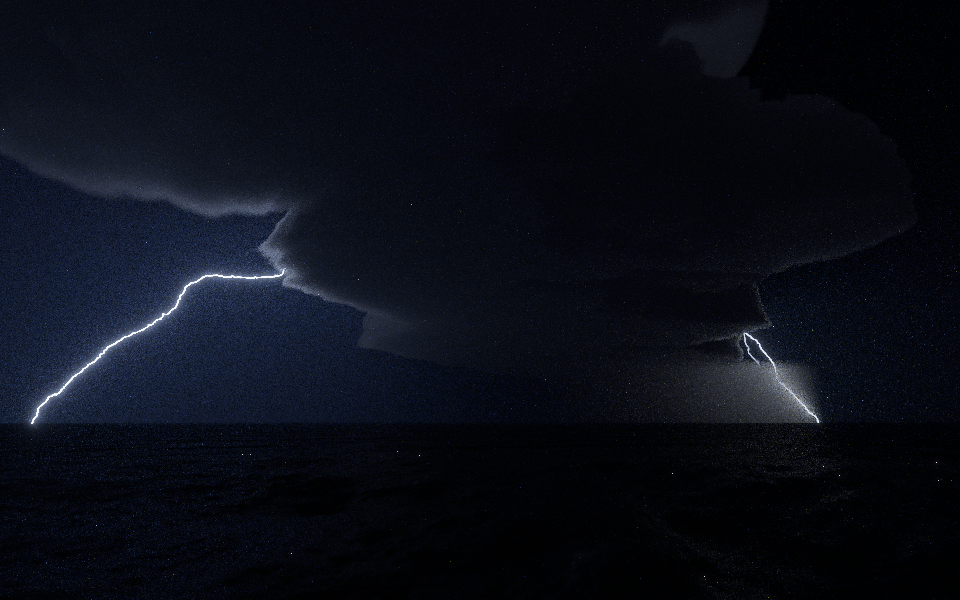
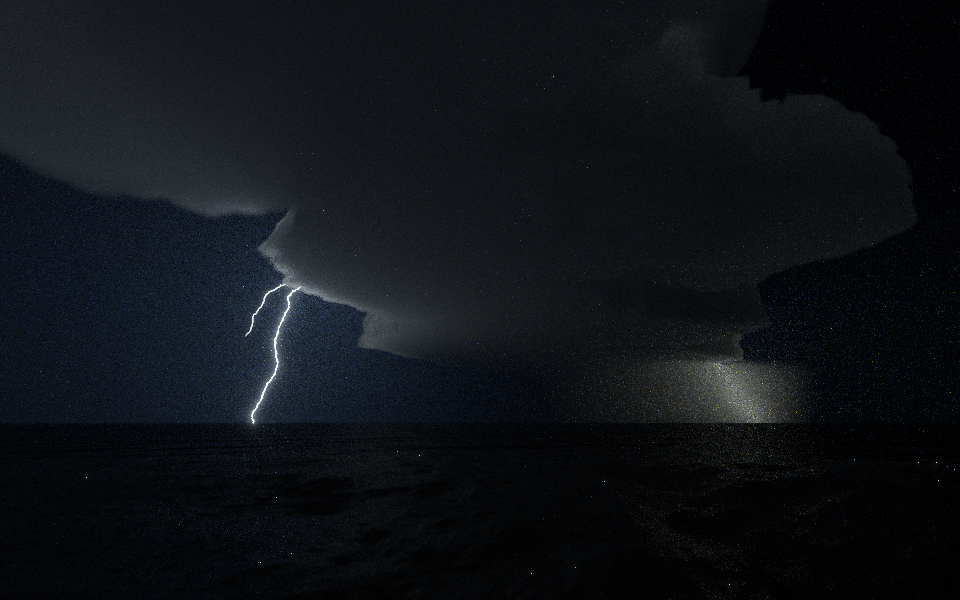
Lightning scenes: a real cloud's albedo, and the atlas on the physics
The storm's cloud absorbs as real droplets do (albedo 0.9999), so the light
of flashes inside it spreads through it; paths there end after a few
vertices, which gather nothing more at night. The atlas describes the field,
the spectrum and the dipole glow.

Claude-Session: https://claude.ai/code/session_01U8ZZinkEy4uK9PmdkwJuJu

Changed region(s): [[0.0, 0.3, 0.4688, 0.75], [0.6562, 0.51, 0.9062, 0.78]]

diff --git a/CLAUDE.md b/CLAUDE.md
@@ -5,12 +5,12 @@ Rays.rust is a raytracer written in Rust with the following features:
 - Whitted tracing and path tracing with Monte-Carlo global illumination
 - Material models: Lambertian, Specular, Dielectric, Plastic, Leaf (translucent, `src/material/leaf.rs`), procedural Rock (layered by elevation and bed, festoon cross-bedding shared with terrain relief (`rock::cross_beds`), honeycomb pits, desert varnish, flutes; `fractal` turbulent bump mapping down to the pixel's footprint, and `crackle` fractures, for close-up detail) and Soil (`src/material/soil.rs`: mottled topsoil, stones, litter and moss; loam, clay, sand, desert, forest_floor); bump mapping via an object's "normal" (src/material/bump.rs, docs/bump-mapping.md)
 - Objects: Sphere, Plane, Mesh, OBJ file import; transforms and instancing of named "geometries"; POV-Ray's shapes (cylinder, cone, torus, blob, isosurface, text and more; see docs/shapes.md, parsed in src/scenefile_shapes.rs), combined by CSG (src/shapes/csg.rs); mountains (`"mountains"`: ridged-noise heightfield with snow, rock and vegetation; `"cloud"` raises hill cloud over it, `src/procedural/hill_cloud.rs`: damp air lifted past saturation caps the summits and streams downwind, joining an `overcast` deck's volume (`volume::Sum`) to be lit through its column), and a planet (`"planet"`: the ground as a sphere of the Earth's radius); clouds can cover the whole planet (`"mapping": "global"`: an equi-angular cube-sphere weather map and a planet-wide wind field), seen from orbit in `demo/scenes/orbit.json` (and the bare atmosphere at the limb and from the stratosphere: `limb-sunset.json`, `stratosphere.json`)
-- Participating media: boxes or closed shapes (`"shape"`: media inside dielectrics) of constant, noise-driven or voxel-grid density (`src/volume/grid.rs`: Mitsuba `.vol`, pbrt's DDA majorant grid; delta tracking with local majorants, ratio-tracked shadows); chromatic media (`"sigma_a"`/`"sigma_s"` per channel) tracked by pbrt's spectral MIS (`src/volume/chromatic.rs`: a hero channel per path, ratios settled at the nearest hit and applied as `chromatic::weight()` where light is gathered; shadow transmittance is a `Color`); emissive media (`src/volume/emission.rs`: colour or blackbody temperature grids); Henyey-Greenstein or Mie (water droplet) phase, with delta-M truncation of its forward peak wherever the camera doesn't see the medium directly (`"delta_m"`, on by default: `Volume::truncated` for segments leaving a surface, `volume::at_vertex`; the camera's first scattering keeps the whole phase function); diffraction by particles (coronae, iridescence); ice-crystal halos traced through hexagonal prisms (sun dogs, 22°/46° halos, circumzenithal arc); rainbows traced through raindrops (`"rainbow": true`: primary and secondary bows, Alexander's dark band); optional similarity and Oz multiple-scattering approximations, and diffusion for thick decks (`"diffusion"`: at a path's first vertex in the medium, sunlight diffused through a slab as thick as the column through it, `DensityField::column_depths`, and point/area lights (lightning) diffused out of the medium along the line to each sample, `VolumeMaterial::diffused_fraction`, through `material::functions::sample_lights_through`; later vertices there skip both)
+- Participating media: boxes or closed shapes (`"shape"`: media inside dielectrics) of constant, noise-driven or voxel-grid density (`src/volume/grid.rs`: Mitsuba `.vol`, pbrt's DDA majorant grid; delta tracking with local majorants, ratio-tracked shadows); chromatic media (`"sigma_a"`/`"sigma_s"` per channel) tracked by pbrt's spectral MIS (`src/volume/chromatic.rs`: a hero channel per path, ratios settled at the nearest hit and applied as `chromatic::weight()` where light is gathered; shadow transmittance is a `Color`); emissive media (`src/volume/emission.rs`: colour or blackbody temperature grids); Henyey-Greenstein or Mie (water droplet) phase, with delta-M truncation of its forward peak wherever the camera doesn't see the medium directly (`"delta_m"`, on by default: `Volume::truncated` for segments leaving a surface, `volume::at_vertex`; the camera's first scattering keeps the whole phase function); diffraction by particles (coronae, iridescence); ice-crystal halos traced through hexagonal prisms (sun dogs, 22°/46° halos, circumzenithal arc); rainbows traced through raindrops (`"rainbow": true`: primary and secondary bows, Alexander's dark band); optional similarity and Oz multiple-scattering approximations, and diffusion for thick decks (`"diffusion"`: at a path's first vertex in the medium, sunlight diffused through a slab as thick as the column through it, `DensityField::column_depths`, and point/area lights (lightning) glowing out through the medium by the diffusion dipole (as Jensen et al.'s BSSRDF), along the line to each sample, `VolumeMaterial::diffused_gain`, through `material::functions::sample_lights_through`; later vertices there skip both)
 - Skysphere with Rayleigh and Mie Scattering (radiance per unit of the `"sun"`'s irradiance: with a sun the sky's `brightness` follows its `intensity`, `SceneFile::sky_follows_sun`), and aerial perspective (distant objects attenuated and hazed by the same atmosphere); `"crepuscular_rays": true` lets clouds and terrain shadow the air (sunbeams)
 - The rest of the universe (`"background": {"type": "space"}`, `src/procedural/space/`, docs/space.md): procedural stars (luminosity function, black-body colours), the Milky Way's glow and dust lanes, emission, reflection, planetary and dark nebulae, and spiral and elliptical galaxies; physically bright (magnitudes against the sun's, so it takes a night exposure, `"output": {"exposure": ...}`) unless `brightness` scales it; seen through a skysphere's air by its transmittance, and skipped where the sky outshines it (`threshold`) (`demo/scenes/deep-space.json`, `night-orbit.json`)
 - Moons (`"moon"`, `src/celestial/`, docs/moon.md): real spheres at their true distance (placed by `direction`, a Keplerian `orbit` or `position`; tidally locked, with libration) with a seeded cratered surface (Pike's crater shapes, saturated crater populations, basins, near-side maria, rays; relief shadows near the terminator) reflecting the sun by Hapke's model fitted to the Moon's phase curve (so physically bright), lit by earthshine and eclipsed by the planet; its reflected light lights the scene and the night sky (`Moonlight`, `Scene::moonlight`, sampled like the sun via `Scene::directional_lights`); `demo/scenes/moon.json`, `moonrise.json`, `moon-daytime.json`, `moon-crescent.json`
 - Planets (docs/planets.md, `src/celestial/`): gas and ice giants (`"gas_giant"`: Jupiter, Saturn, Uranus, Neptune presets or seeded; oblate spheroids, `shape.rs`; cloud bands grown from the jets' shear and the clouds advected by jets, turbulence and vortices, `bands.rs`; Hapke cloud-deck photometry calibrated to geometric albedo, `giant.rs`; moons' shadows on them), rings (`rings.rs`: optical-depth profiles, Saturn's measured, seeded ones with resonance gaps; single scattering lit/unlit faces, transmission, shadows both ways, filtered τ), rocky and icy worlds as `moon` presets (`terrain.rs`: mercury, mars, callisto, ganymede, europa, io, seeded rocky/icy), and `"world"`: any of these from one seed (`celestial::world_object`); `demo/scenes/saturn.json`, `saturn-shadows.json`, `jupiter.json`, `ice-giants.json`, `worlds.json`, `worlds-from-seeds.json`
-- Lightning (`"lightning"`, `src/procedural/lightning.rs`): a channel grown as a stepped leader (16° tortuosity, branching thinning by generation, the race to the ground decides the main channel; fractal detail by midpoint displacement; branches glow by the channel beyond them), cloud-to-ground or intracloud; physically bright (lumen-seconds per metre per stroke over the `shutter`, on the sun's scale, `SceneFile::lightning_follows_sun`); an emitter sampled segment by segment through its own light BVH (`Channel::sample_from`), widened to half a pixel from the camera keeping its light per metre, casting no shadow; `demo/scenes/lightning.json`, `lightning-anvil.json`
+- Lightning (`"lightning"`, `src/procedural/lightning.rs`): a channel grown as a stepped leader in the storm's field (`Field`: a charge tripole, the channel's charge, images in the ground; tips advance with probability (E/E_max)^η as in the dielectric breakdown model, 16° tortuosity, branching thinning by generation, the race to the ground decides the main channel; fractal detail by midpoint displacement; branches glow by the channel beyond them), cloud-to-ground or intracloud; physically bright (lumen-seconds per metre per stroke over the `shutter`, on the sun's scale, `SceneFile::lightning_follows_sun`) in its measured line spectrum (`spectrum::lightning`, `Emission::Lightning`); an emitter sampled segment by segment through its own light BVH (`Channel::sample_from`), widened to half a pixel from the camera keeping its light per metre, casting no shadow; `demo/scenes/lightning.json`, `lightning-anvil.json`
 - Directional sun light (`"sun"`), sampled directly; follows the skysphere's sun and is reddened by its atmosphere
 - Procedural objects including Ocean (Tessendorf's algorithm with Phillips spectrum; the planet's surface by default, or a plane with `"planet_radius": 0`: displaced near the camera, physically lit, with sun glitter and slopes calibrated to Cox and Munk, and whitecaps over Monahan's fraction for the wind, `ocean::Foam`, on steep crests in lace and streaks; scenes set `wind` to their weather) and volumetric clouds: cumulus to stratus (`"nubis_clouds"`, after Horizon Zero Dawn's Nubis) and cirrus with fallstreaks (`"hogan_kew_cirrus"`, after Hogan and Kew), altocumulus as convection cells (`"benard_altocumulus"`: Rayleigh-Bénard cells, rows, undulatus waves), lenticular clouds over a mountain's lee waves (`"lenticular"`: stacked plates from moist layers), mammatus under an anvil (`"mammatus"`), cumulonimbus (`"cumulonimbus"`, `src/procedural/cumulonimbus.rs`: a tower shaped by parcel theory, its overshooting top w / N from CAPE, glaciating above `glaciation`, a flanking line, and an anvil carried by the wind aloft), the overcast of bad weather (`"overcast"`, `src/procedural/overcast.rs`: a nimbostratus deck kilometres thick whose underside hangs in lumps along the wind, with scud below; lit through `"diffusion": true`), rain shafts and virga (`"precipitation"`: Marshall-Palmer extinction by rain rate, shear, evaporation), and cumulus grown by simulating a sunny day (`"harris_cumulus"`: stable fluids with buoyancy, condensation, latent heat and subgrid turbulence, through the ARM shallow-cumulus case's day; cached so `scripts/animate.py` can render it boiling and dissipating)
 - Procedural trees and bushes (Weber and Penn's parametric model, `src/procedural/tree.rs`; bushes: shrub, hazel, hawthorn, juniper; desert: creosote-bush, joshua-tree, utah-juniper), and desert plants grown as tree species with a `form` (`src/procedural/succulent.rs`: saguaro, barrel-cactus, prickly-pear, agave, ocotillo, and `mound` shrubs sagebrush and rabbitbrush; body as "bark", spines as "leaves"; `demo/scenes/desert-plants.json`), forests of instanced

diff --git a/demo/cloud-atlas.md b/demo/cloud-atlas.md
@@ -433,10 +433,18 @@ shaft, lighting the curtain it falls through. Inside the upper tower an intraclo
 spreads through 25 km of channel, and the whole storm glows with its light, against a black
 sky.
 
-The channel is grown as a *stepped leader* (`procedural::lightning`). Leader tips push down
-from the cloud's charge region in steps of tens of metres (`step`), each turning by about 16°
-from the last, as measured in photographs of channels (Hill 1968), drawn down by the field and
-towards a `target`. Tips fork (`branching`) and die out (`dying`); when one comes within
+The channel is grown as a *stepped leader* (`procedural::lightning`), in the storm's electric
+field. The cloud is a tripole of charge regions: the negative one where the flash starts, a
+positive one 4 km above it and a small positive pocket below; the leader carries negative
+charge of its own, about a millicoulomb per metre; and each charge has its image in the
+conducting ground. Leader tips push out in steps of tens of metres (`step`). At each step every
+tip probes the field just ahead of it, and advances with probability (E / E_max)^η, as in the
+dielectric breakdown model (Niemeyer, Pietronero and Wiesmann 1984; η = 3, `eta`, for the
+sparse branching of lightning); a tip left behind for long stalls. So the channel's own charge
+screens the branches beside it, which stay short, and with its image draws the leading tip to
+the ground ever harder as it nears it. Each step turns by about 16° from the last, as measured
+in photographs of channels (Hill 1968), about the field's direction, and a `target` draws it
+too. Tips fork (`branching`); when one comes within
 `striking_distance` of the ground, an upward leader meets it and the return stroke flows
 along that path, the main channel. Each straight step is then broken into a fractal path down
 to a couple of metres (`detail`, `roughness`), so the channel is jagged at every scale. The
@@ -454,9 +462,12 @@ metre or so from the channel it is far brighter than daylight; a kilometre away 
 lux, tens of times full moonlight: a stroke a kilometre away gives a few lux-seconds, which
 is why lightning is photographed at f/8 and ISO 100 to 400, and its glow inside a cloud at
 ISO 1600 or more. So the scene is exposed as a night photograph would be (`"exposure": 3000`),
-the channel itself blown out, with glare. Its colour is a blackbody at
-25 000 K, near the channel's temperature, an approximation to its spectrum of nitrogen, oxygen
-and hydrogen lines.
+the channel itself blown out, with glare. Its colour is its spectrum
+(`spectrum::lightning`): a channel at some 30 000 K emits mostly lines, broadened by its pressure
+to a few nanometres, of singly ionised nitrogen in the blue and green, hydrogen's Hα in the red
+and neutral oxygen and nitrogen in the near infrared, over a continuum (Orville 1968; Salanave
+1961). That is bluish white, far whiter than a blackbody at the channel's temperature; in
+spectral rendering each line is traced at its wavelength.
 
 The channel is a light, sampled directly: a light BVH over its segments chooses one by the
 light it could send to the point being lit, then a point on the side facing it. Seen from
@@ -470,11 +481,18 @@ nearly all of it emerges, after hundreds of scatterings, and the cloud glows. A 
 finds those paths only by chance, so the storm uses the diffusion approximation
 (`"diffusion"`, as overcast decks do for sunlight): at a path's first vertex in the cloud, each
 light sample's direct light is attenuated as usual, and what it loses on the way arrives
-diffused. In diffusion theory a source at reduced optical depths τ'f from one side of a slab
-and τ'b from the other sends a fraction (τ'b + ⅔) / (τ'f + τ'b + 4⁄3) out of the first, so
-the depths towards the light and beyond it are measured through the cloud's density along the
-same line. A flash deep in the cloud lights it broadly and softly; one near its surface
-brightly, nearby.
+diffused. Light from a source inside a cloud is trapped, scattered to and fro until it leaks
+out, so near the surface over it the cloud is brighter than the source alone would make it
+there. The diffusion solution for a point source buried in a half-space is a dipole, the source
+and its negative image above the surface (Farrell, Patterson and Wilson 1992; the same as
+Jensen et al.'s BSSRDF for subsurface scattering): straight over a deep source, four times as
+bright as in empty space, and fading to the sides, so the glow gathers over the channels. The
+cloud's coefficients are measured along the line to each light sample, and the light that
+leaves by the cloud's far side is taken off by diffusion's split through a slab. Real cloud
+droplets absorb about a hundred-thousandth of the light at each scattering, so trapped light
+spreads for kilometres; at the albedo of 0.99 the other cloud scenes use it would die out in a
+few hundred metres, so the storm has 0.9999. Paths in the cloud end after a few vertices
+(`max_depth`), since later ones gather nothing at night: the first has counted the flashes.
 
 ### Lightning under the anvil
 
@@ -526,10 +544,13 @@ is still noisy: from orbit, cloud detail is much smaller than a pixel.
 
 ## Not yet
 
-- **Lightning seen through cloud**: the diffusion approximation lights a cloud from a flash
-  inside it, but light doesn't spread sideways from the line to each light sample, so the
-  glow isn't concentrated around channels just under the surface as much as it should be,
-  and turrets lit from inside show less relief than in photographs.
+- **Lightning seen through cloud**: the dipole treats the cloud near each point as a
+  half-space whose surface faces the camera; real turrets are curved and lit from several
+  sides, so their relief when lit from within is softer than in photographs.
+- **Lightning's physics**: the leader's field is from point charges, not solved around the
+  conducting channel; there are no upward leaders from the ground, no time (strokes, dart
+  leaders, continuing current, the channel cooling); and in-cloud channels grow by rules rather
+  than in the field.
 - **Cumulonimbus by simulation**: `harris_cumulus` could grow one, with a deeper grid, a weaker
   inversion and ice microphysics; the `cumulonimbus` generator shapes it from parcel theory
   instead.
